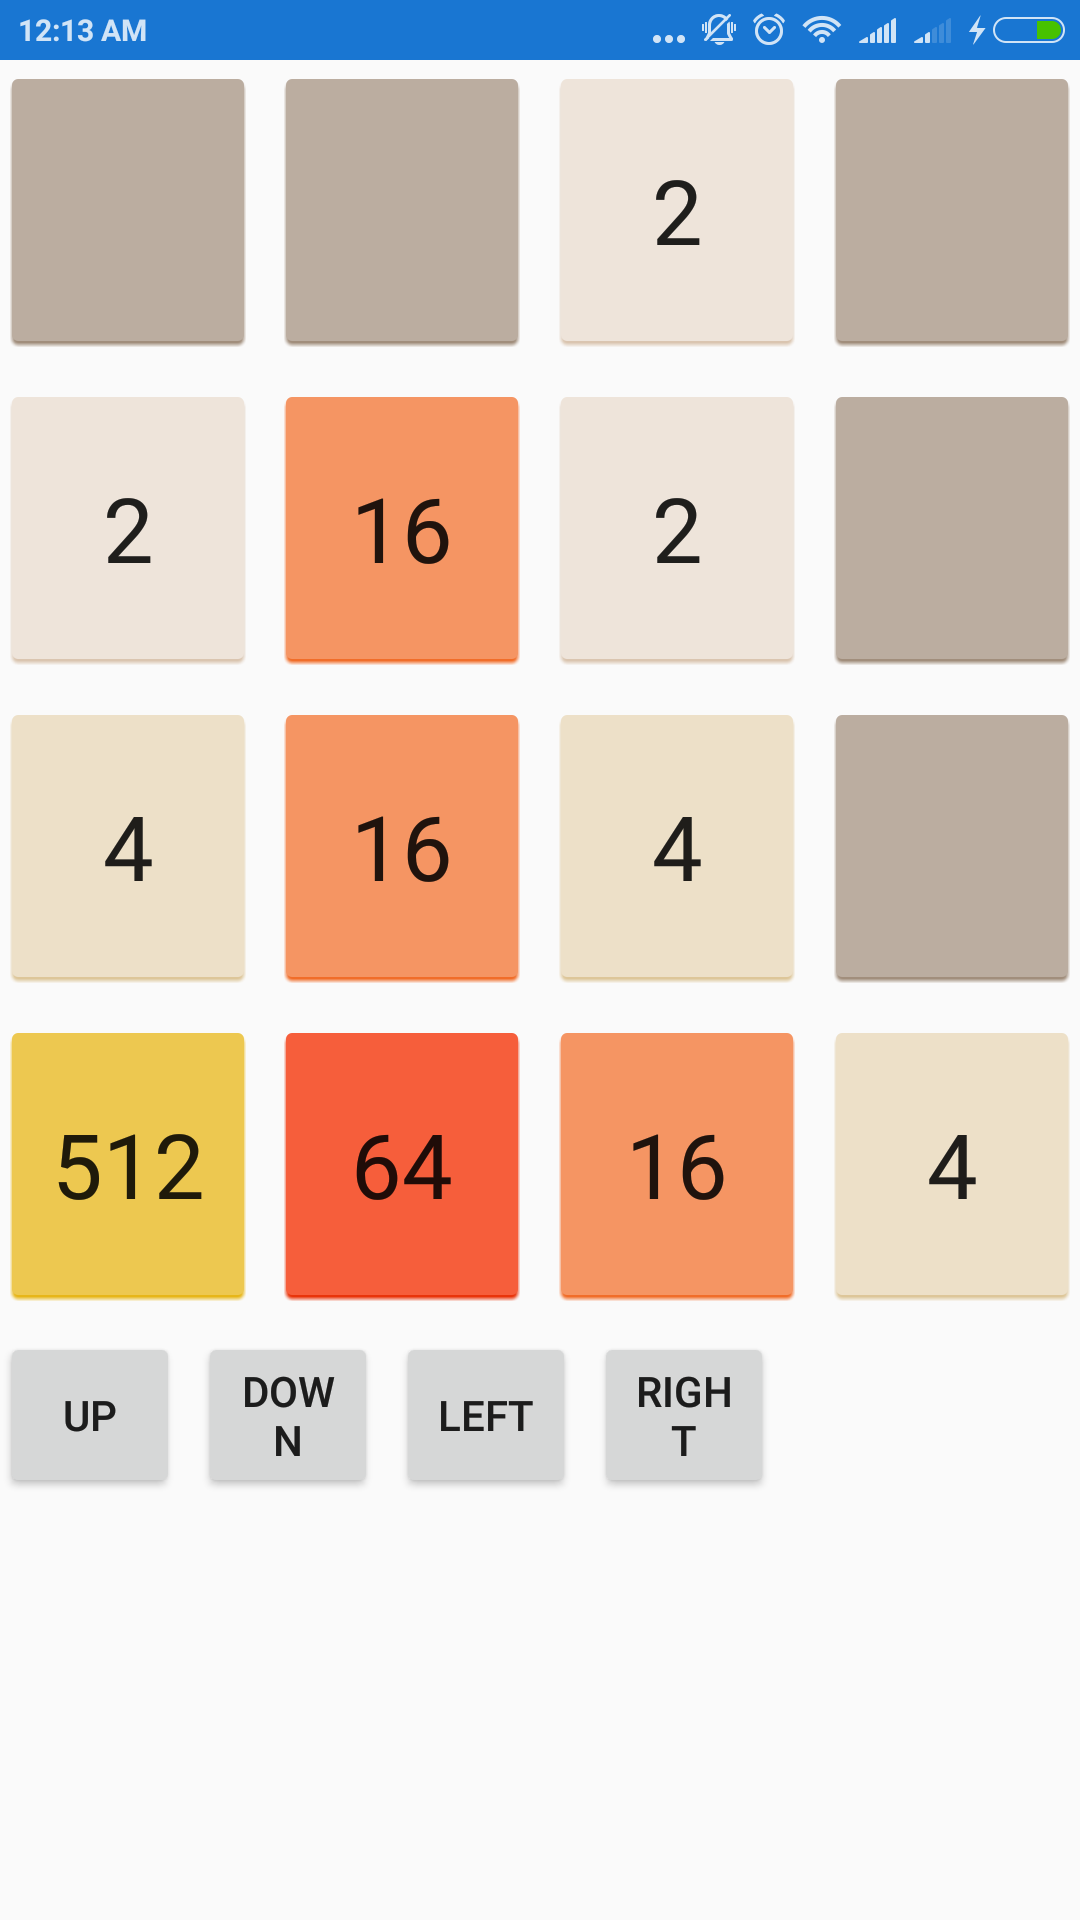
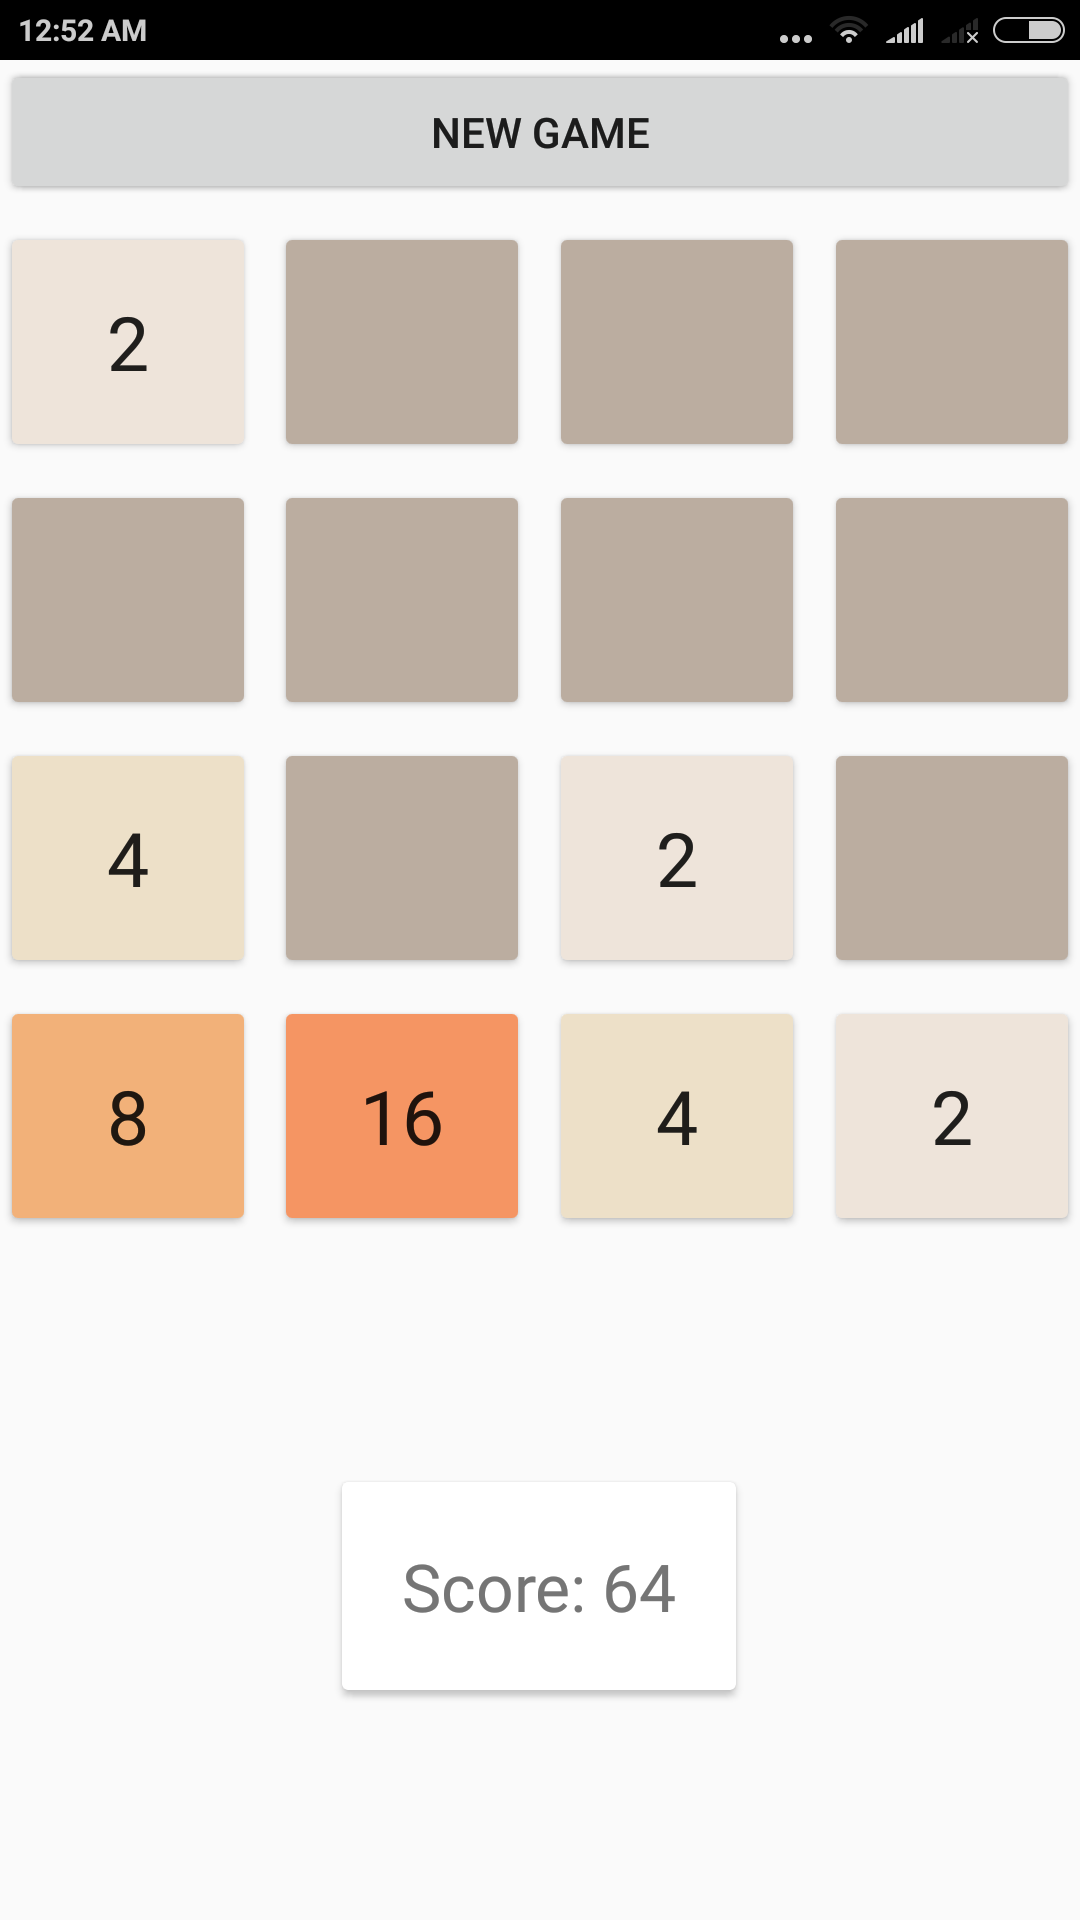
add score label

diff --git a/App1/App1/MainPage.xaml b/App1/App1/MainPage.xaml
@@ -2,6 +2,7 @@
 <ContentPage xmlns="http://xamarin.com/schemas/2014/forms"
              xmlns:x="http://schemas.microsoft.com/winfx/2009/xaml"
              xmlns:local="clr-namespace:App1"
+             x:Name="content_page"
              x:Class="App1.MainPage">
     <StackLayout>
         <Button x:name="new_game" Text="New game" Clicked="newGameClicked" />
@@ -11,14 +12,9 @@
             <ContentView x:Name="overlay" AbsoluteLayout.LayoutBounds="0, 0, 1, 1" AbsoluteLayout.LayoutFlags="All" IsVisible="True" BackgroundColor="Transparent" Padding="0, 0" >
             </ContentView>
         </AbsoluteLayout>
+        <Frame HorizontalOptions="Center" VerticalOptions="CenterAndExpand" OutlineColor="Accent">
+            <Label x:Name="scoreLabel" Text="Score 54" FontSize="Large" />
+        </Frame>
     </StackLayout>
-    
-    <!--<StackLayout Orientation="Vertical" VerticalOptions="FillAndExpand">
-        <ContentView x:Name="actIndBackground"
-         BackgroundColor="AliceBlue" Opacity="0.5"
-         AbsoluteLayout.LayoutFlags="All"
-         AbsoluteLayout.LayoutBounds="0,0,1,1">
-            <Label Text="HI" />
-        </ContentView>
-    </StackLayout>-->
+
 </ContentPage>

diff --git a/App1/App1/MainPage.xaml.cs b/App1/App1/MainPage.xaml.cs
@@ -34,7 +34,20 @@ namespace App1
         public Dictionary<int, string> numberToColor = new Dictionary<int, string>();
         public int BOARD_SIZE = 4;
         public Grid grid;
-   
+        private Random rnd = new Random();
+        public double APP_WIDTH = 320;
+        public int gameScore = 0;
+
+        public void startNewGame()
+        {
+            this.gameScore = 0;
+            this.updateGrid();
+            this.gameBoard = this.generateBoard();
+            this.previousGameBoard = this.generateBoard();
+            this.addNumber(true);
+            this.addNumber(true);
+        }
+
         public int[][] generateBoard ()
         {
             var newBoard = new int[this.BOARD_SIZE][];
@@ -86,26 +99,23 @@ namespace App1
                 {
                     var action = await DisplayAlert("GameOver", "Start a new game?", "Yes", "No");
                     if (action == true)
-                    {
-                        this.gameBoard = this.generateBoard();
-                        this.addNumber(true);
-                        this.addNumber(true);
-                        this.previousGameBoard = this.generateBoard();
-                    }
-                }
+                        this.startNewGame();
+                                       }
                 else
                     this.Transpose();
             } else if (forceAdd || this.shoudlAddNumber())
             {
-                Random rnd = new Random();
+                
                 int r = rnd.Next(emptySpots.Count);
                 var randomSpot = emptySpots[r];
-                this.gameBoard[randomSpot[0]][randomSpot[1]] = 2;
+                var randomIntToDeterminateWhichNumberAddToBoard = rnd.Next(0, 10);
+                this.gameBoard[randomSpot[0]][randomSpot[1]] = randomIntToDeterminateWhichNumberAddToBoard < 8 ? 2 : 4;
+                scoreLabel.Text = "Score: " + this.gameScore.ToString();
                 this.UpdateBoard();
             }
         }
 
-        public int[][] Transpose(/*int[][] matrix*/)
+        public int[][] Transpose()
         {
             int[][] result = new int[this.BOARD_SIZE][];
             for (int i = 0; i < this.BOARD_SIZE; i++)
@@ -141,6 +151,7 @@ namespace App1
             {
                 if (i != filterd.Length - 1 && filterd[i] == filterd[i + 1])
                 {
+                    this.gameScore += 2 * filterd[i];
                     result.Add(2 * filterd[i]);
                     i += 2;
                 }
@@ -212,71 +223,43 @@ namespace App1
             return false;
         }
 
+        public int getTileFontSize()
+        {
+            switch(this.BOARD_SIZE)
+            {
+                case 5:
+                    return 25;
+                case 6:
+                    return 18;
+                case 7:
+                    return 20;
+                case 8:
+                    return 15;
+                default:
+                    return 25;
+            }
+        }
+
         public void UpdateBoard()
         {
             this.grid.Children.Clear();
             for (int i = 0; i < this.BOARD_SIZE; i++)
-            {
                 for (int j = 0; j < this.BOARD_SIZE; j++)
                 {
                     var btn = new Button
                     {
                         Text = this.gameBoard[i][j] == 0 ? "" : this.gameBoard[i][j].ToString(),
-                        FontSize = 30,
-                        BackgroundColor = Color.FromHex(this.numberToColor[this.gameBoard[i][j]])
+                        FontSize = getTileFontSize(),
+                        BackgroundColor = Color.FromHex(numberToColor.ContainsKey(this.gameBoard[i][j]) ? numberToColor[this.gameBoard[i][j]] : numberToColor[2048])
                     };
                     btn.SetValue(Grid.RowProperty, i);
                     btn.SetValue(Grid.ColumnProperty, j);
                     this.grid.Children.Add(btn);
                 }
-            }
-        }
-
-        public void addControls ()
-        {
-            var controls = new StackLayout { Orientation = StackOrientation.Horizontal, HorizontalOptions = LayoutOptions.FillAndExpand };
-            var up = new Button
-            {
-                Text = "Up",
-                WidthRequest = 60
-            };
-            up.Clicked += (s, e) => this.up();
-
-            controls.Children.Add(up);
-
-
-            var down = new Button
-            {
-                Text = "Down",
-                WidthRequest = 60
-            };
-            down.Clicked += (s, e) => this.down();
-
-            controls.Children.Add(down);
-
-            var left = new Button
-            {
-                Text = "Left",
-                WidthRequest = 60
-            };
-            left.Clicked += (s, e) => this.left();
-            controls.Children.Add(left);
-
-            var right = new Button
-            {
-                Text = "Right",
-                WidthRequest = 60
-            };
-            right.Clicked += (s, e) => this.right();
-
-            controls.Children.Add(right);
-            //var stacklayout = (StackLayout)(this.Content);
-            //mainLayout.Children.Add(controls);
         }
 
         async public void newGameClicked(object sender, EventArgs args)
         {
-            //sender
             var result = await chooseBoardSize();
             var didUserChooseGameSize = false;
             switch (result)
@@ -292,64 +275,54 @@ namespace App1
                 case "5x5":
                     this.BOARD_SIZE = 5;
                     didUserChooseGameSize = true;
-
+                    break;
+                case "6x6":
+                    this.BOARD_SIZE = 6;
+                    didUserChooseGameSize = true;
+                    break;
+                case "7x7":
+                    this.BOARD_SIZE = 7;
+                    didUserChooseGameSize = true;
+                    break;
+                case "8x8":
+                    this.BOARD_SIZE = 8;
+                    didUserChooseGameSize = true;
                     break;
                 default:
                     Console.WriteLine("Default case");
                     break;
             }
             if (didUserChooseGameSize)
-            {
-                this.gameBoard = this.generateBoard();
-                this.previousGameBoard = this.generateBoard();
-                this.addNumber(true);
-                this.addNumber(true);
-                this.UpdateBoard();
-            }
+                this.startNewGame();
         }
-
-        async public void btnClicked(object sender, EventArgs args)
-        {
-            //sender
-            var btn = sender as Button;
-            btn.Text = "fds";
-            await chooseBoardSize();
-
-            mainLayout.Children.Add(new Button { Text = "12" });
-            System.Diagnostics.Debug.WriteLine("btn clicked");
-            
-            //Button(sender).Text = "fsd";
-        }
-
-        void OnContentViewSizeChanged(object sender, EventArgs args)
-        {
-            //ContentView contentView = (ContentView)sender;
-            mainLayout.Children.Add(new Button { Text = "hi" });
-        }
-
+   
         async public Task<string> chooseBoardSize()
         {
-            var choosedBoardSize = await DisplayActionSheet("Choose board size", null, null, "3x3", "4x4", "5x5");
+            var choosedBoardSize = await DisplayActionSheet("Choose board size", null, null, "3x3", "4x4", "5x5", "6x6", "7x7", "8x8");
             return choosedBoardSize;
         }
 
-        public MainPage()
-		{
-			InitializeComponent();
+        public void updateGrid ()
+        {
             mainLayout.Children.Clear();
 
             var grid = new Grid();
             for (int i = 0; i < this.BOARD_SIZE; i++)
-                grid.RowDefinitions.Add(new RowDefinition { Height = 100 });
+                grid.RowDefinitions.Add(new RowDefinition { Height = APP_WIDTH / this.BOARD_SIZE });
 
             for (int i = 0; i < this.BOARD_SIZE; i++)
                 grid.ColumnDefinitions.Add(new ColumnDefinition { Width = new GridLength(1, GridUnitType.Star) });
 
             mainLayout.Children.Add(grid);
-            //this.addControls();
-            SwipeListener swipeListener = new SwipeListener(overlay, this);
             this.grid = grid;
-            
+        }
+
+        public MainPage()
+        {
+            InitializeComponent();
+
+            this.updateGrid();
+            SwipeListener swipeListener = new SwipeListener(overlay, this);
             this.gameBoard = this.generateBoard();
             this.previousGameBoard = this.generateBoard();
             this.numberToColor.Add(0, "bbada0");
@@ -366,7 +339,6 @@ namespace App1
             this.numberToColor.Add(2048, "edc22e");
             this.addNumber(true);
             this.addNumber(true);
-            this.UpdateBoard();
         }
 	}
 }

diff --git a/readme.md b/readme.md
@@ -8,17 +8,18 @@
 * [how to add click handler](https://www.youtube.com/watch?v=gm-RgfdaISU)
 
 #### TODO:
+* add animations
+* add separate class for game logic
+* tile should be square
+* change app icon
+* show gameover pop up right away (now it is showing after user attempts to move) 
 * add swipe (remove buttons) or add normal buttons [SOLVED]
 * detect gameover [SOLVED]
 * don't add number when nothing moved [SOLVED]
 * add colors [SOLVED]
-* add separate class for game logic
 * prevent switching to landscape [SOLVED]
-* add sometimes 4 to gameboard
-* change app icon
+* add sometimes 4 to gameboard [SOLVED]
 * change app name [SOLVED]
-* tile should be square
 * add ability to choose board size 3x3, 4x4 [SOLVED]
-* add animations
-* add score
+* add score [SOLVED]
 * add button to start new game [SOLVED]
